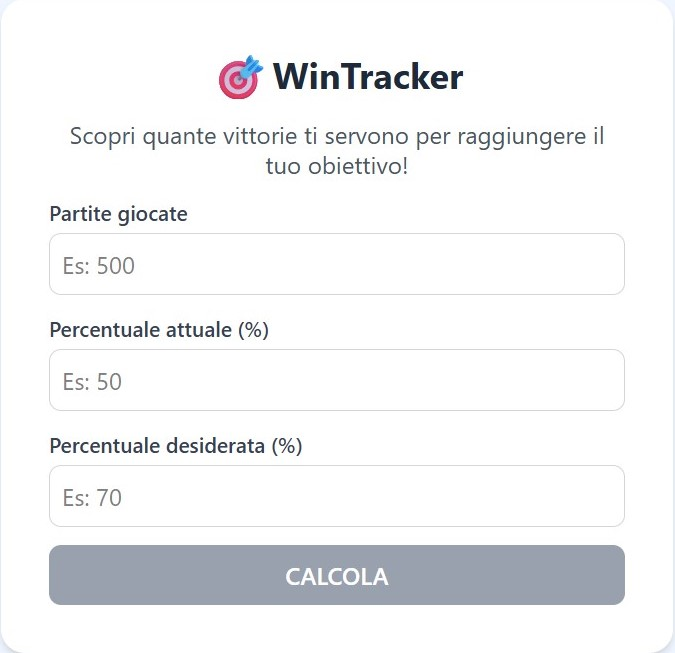
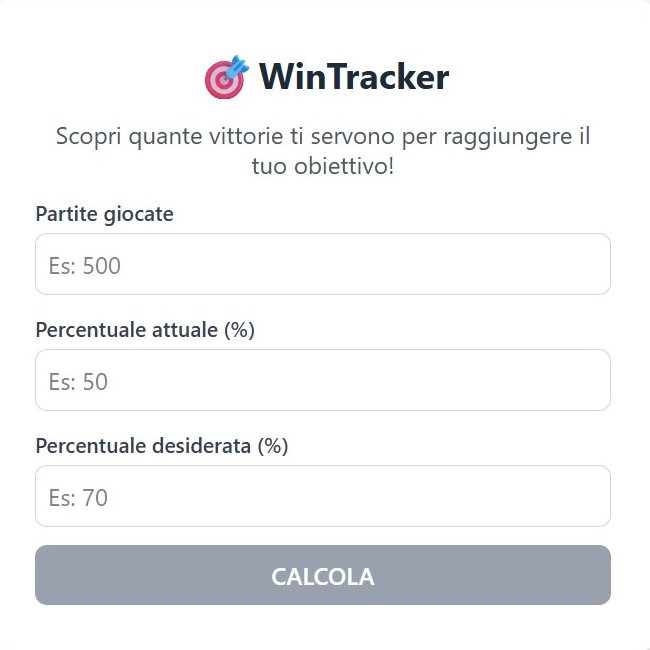
feat: add idea board project

diff --git a/src/portfolio/Portfolio.tsx b/src/portfolio/Portfolio.tsx
@@ -1,3 +1,4 @@
+import ideaBoard from "../assets/idea-board.jpg";
 import winTracker from "../assets/win-tracker.jpg";
 import { Wrapper } from "../components/Wrapper";
 import type { CarouselItem } from "../types/types";
@@ -9,6 +10,11 @@ export const Portfolio = (): React.JSX.Element => {
       img: winTracker,
       alt: "win-tracker",
       link: "https://rodleyorosa.github.io/win-tracker/",
+    },
+    {
+      img: ideaBoard,
+      alt: "idea-board",
+      link: "https://rodleyorosa.github.io/idea-board/",
     },
   ];
   return (

diff --git a/src/portfolio/EmblaCarousel.tsx b/src/portfolio/EmblaCarousel.tsx
@@ -21,14 +21,15 @@ const EmblaCarousel: React.FC<PropType> = (props) => {
           {carouselItems.map((item, index) => (
             <div className="embla__slide" key={index}>
               <div className="embla__slide__number">
-                <a href={item.link} target="_blank">
-                  <img  
+                <a href={item.link} target="_blank" title={item.alt}>
+                  <img
                     src={item.img}
                     alt={item.alt}
                     className="border border-[#00000019] rounded-md shadow-md"
                   />
                 </a>
               </div>
+              
             </div>
           ))}
         </div>